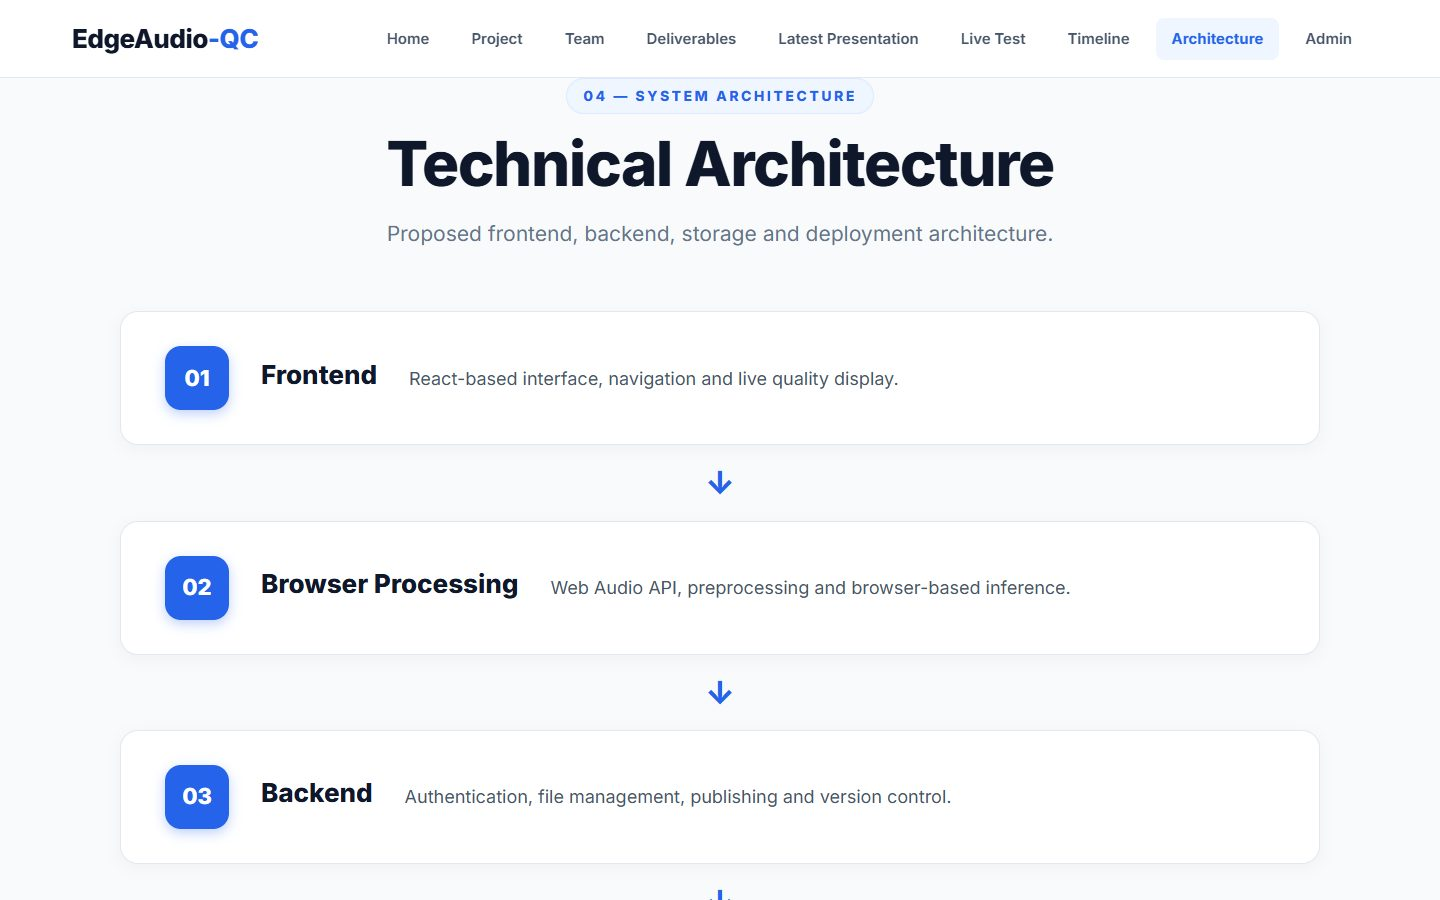
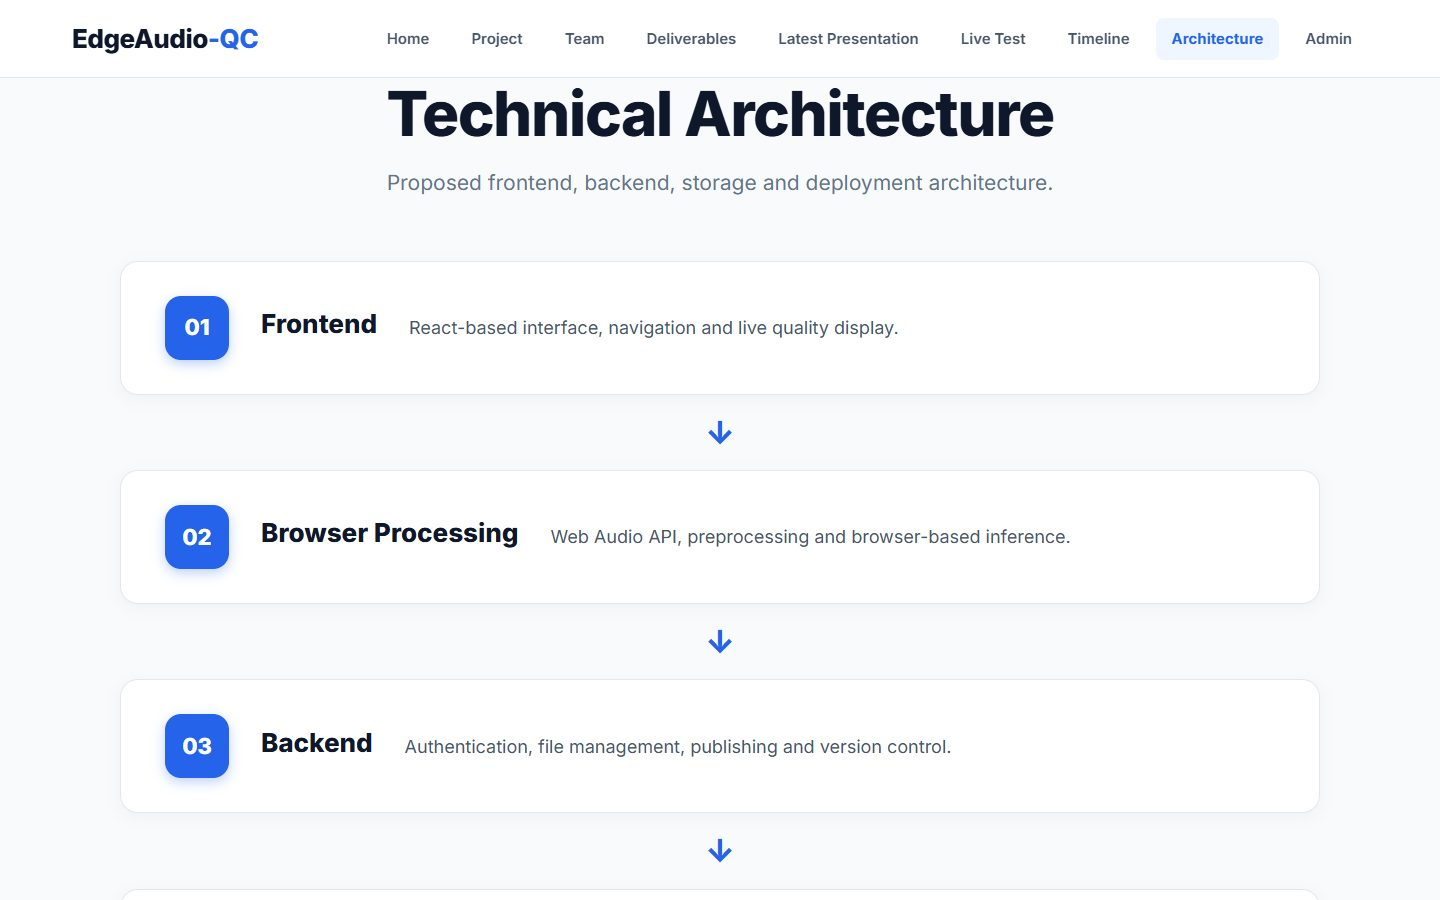
Refine page headers and final presentation page; refresh screenshots

diff --git a/src/pages/FinalPresentationPage.jsx b/src/pages/FinalPresentationPage.jsx
@@ -45,8 +45,8 @@ const LIVE_SIM = [
 ];
 
 const SLIDES = [
-  "Title", "The Problem", "Our Answer", "What We Built", "The Pipeline", "The Model",
-  "Training & Accuracy", "Results", "Diagnostics", "Live Test", "Live Calls",
+  "Title", "The Problem", "Our Answer", "What We Built", "The Website", "The Pipeline", "The Model",
+  "Training & Accuracy", "Results", "Diagnostics", "Live Test", "Live Calls", "Captured Live",
   "Performance", "Privacy & Security", "Journey", "Limitations & Next Steps", "Thank You",
 ];
 
@@ -251,8 +251,24 @@ export default function FinalPresentationPage() {
           </div>
         </Slide>
 
-        {/* 5 — PIPELINE */}
-        <Slide index={4} eyebrow="04 — THE PIPELINE" title="From microphone to score in six steps">
+        {/* 5 — THE WEBSITE */}
+        <Slide index={4} eyebrow="03 — WHAT WE BUILT" title="The website the team built">
+          <div className="fp-shots fp-shots-3">
+            {[
+              ["home.jpg", "Home", "Side menu with every page and quick links to both presentations."],
+              ["architecture.jpg", "Architecture", "How audio moves from the microphone to the score."],
+              ["deliverables.jpg", "Deliverables", "Versioned archive of every published presentation."],
+            ].map(([file, name, text]) => (
+              <figure className="fp-shot" key={file}>
+                <div className="fp-shot-frame"><img src={`/screenshots/${file}`} alt={`${name} page`} loading="lazy" /></div>
+                <figcaption><strong>{name}</strong>{text}</figcaption>
+              </figure>
+            ))}
+          </div>
+        </Slide>
+
+        {/* 6 — PIPELINE */}
+        <Slide index={5} eyebrow="04 — THE PIPELINE" title="From microphone to score in six steps">
           <ol className="fp-flow">
             {[
               ["Capture", "Microphone, demo voice or PC audio at 44.1/48 kHz"],
@@ -272,8 +288,8 @@ export default function FinalPresentationPage() {
           <p className="fp-note">The JavaScript feature code matches the Python training code, so the browser sees the same input the model was trained on.</p>
         </Slide>
 
-        {/* 6 — MODEL */}
-        <Slide index={5} eyebrow="05 — THE MODEL" title="One small network, three answers">
+        {/* 7 — MODEL */}
+        <Slide index={6} eyebrow="05 — THE MODEL" title="One small network, three answers">
           <div className="fp-split">
             <div className="fp-arch">
               <div className="fp-arch-box">Input · 201 frames × 85 features</div>
@@ -298,8 +314,8 @@ export default function FinalPresentationPage() {
           </div>
         </Slide>
 
-        {/* 7 — TRAINING */}
-        <Slide index={6} eyebrow="06 — TRAINING & ACCURACY" title="Trained on real speech with known damage">
+        {/* 8 — TRAINING */}
+        <Slide index={7} eyebrow="06 — TRAINING & ACCURACY" title="Trained on real speech with known damage">
           <div className="fp-split">
             <div>
               <ul className="fp-list">
@@ -323,8 +339,8 @@ export default function FinalPresentationPage() {
           </div>
         </Slide>
 
-        {/* 8 — RESULTS */}
-        <Slide index={7} eyebrow="07 — RESULTS" title="Every kind of damage lowers the score">
+        {/* 9 — RESULTS */}
+        <Slide index={8} eyebrow="07 — RESULTS" title="Every kind of damage lowers the score">
           <div className="fp-bars">
             {SWEEP.map((r) => (
               <div className="fp-bar-row" key={r.label}>
@@ -340,8 +356,8 @@ export default function FinalPresentationPage() {
           <p className="fp-note">Mean predicted score on 83 two-second windows of CMU ARCTIC studio speech. Louder noise gives a steadily lower score: 3.44 → 3.01 → 2.57 → 2.15.</p>
         </Slide>
 
-        {/* 9 — DIAGNOSTICS */}
-        <Slide index={8} dark eyebrow="08 — DIAGNOSTICS" title="It also says what is wrong">
+        {/* 10 — DIAGNOSTICS */}
+        <Slide index={9} dark eyebrow="08 — DIAGNOSTICS" title="It also says what is wrong">
           <div className="fp-diag">
             {DIAGNOSTICS.map((d) => (
               <article key={d.head}>
@@ -356,8 +372,8 @@ export default function FinalPresentationPage() {
           <p className="fp-lead">Each diagnostic rises for its own problem. Noise is detected most strongly; the others react clearly but with smaller probabilities, so the app uses per-problem thresholds.</p>
         </Slide>
 
-        {/* 10 — LIVE TEST */}
-        <Slide index={9} eyebrow="09 — LIVE TEST PAGE" title="Try it: speak, play a voice, or break the audio">
+        {/* 11 — LIVE TEST */}
+        <Slide index={10} eyebrow="09 — LIVE TEST PAGE" title="Try it: speak, play a voice, or break the audio">
           <div className="fp-split">
             <ul className="fp-list">
               <li><b>Inputs:</b> microphone, three studio demo voices (CMU ARCTIC), an uploaded file, or audio from the PC.</li>
@@ -378,8 +394,8 @@ export default function FinalPresentationPage() {
           </div>
         </Slide>
 
-        {/* 11 — CALLS */}
-        <Slide index={10} eyebrow="10 — LIVE CALLS" title="In a call, score what you actually hear">
+        {/* 12 — CALLS */}
+        <Slide index={11} eyebrow="10 — LIVE CALLS" title="In a call, score what you actually hear">
           <div className="fp-call">
             <div className="fp-peer">
               <h3>You</h3>
@@ -400,8 +416,22 @@ export default function FinalPresentationPage() {
           <p className="fp-lead">A second on-device analyser scores the incoming audio, so network dropouts show up where they matter. The “What you hear” card appears only while the call is connected.</p>
         </Slide>
 
-        {/* 12 — PERFORMANCE */}
-        <Slide index={11} dark eyebrow="11 — PERFORMANCE" title="Fast enough to run beside a call">
+        {/* 13 — CAPTURED LIVE */}
+        <Slide index={12} eyebrow="10 — LIVE CALLS" title="Captured live from the running app">
+          <div className="fp-shots fp-shots-2">
+            <figure className="fp-shot">
+              <div className="fp-shot-frame"><img src="/screenshots/live-test.jpg" alt="Live Test page scoring Voice 1" loading="lazy" /></div>
+              <figcaption><strong>Live Test, on its own</strong>Voice 1 playing: the score, problem cards and oscilloscope update about three times a second.</figcaption>
+            </figure>
+            <figure className="fp-shot">
+              <div className="fp-shot-frame"><img src="/screenshots/live-call.jpg" alt="Two-way call showing Your mic and What you hear scores" loading="lazy" /></div>
+              <figcaption><strong>In a two-way call</strong>“Your mic” and “What you hear” are scored side by side; the incoming audio has passed through WebRTC.</figcaption>
+            </figure>
+          </div>
+        </Slide>
+
+        {/* 14 — PERFORMANCE */}
+        <Slide index={13} dark eyebrow="11 — PERFORMANCE" title="Fast enough to run beside a call">
           <div className="fp-grid-4">
             <div className="fp-stat"><strong>13.4<small> ms</small></strong><span>median browser time per 2-second window (WebAssembly, 1 thread)</span></div>
             <div className="fp-stat"><strong>~4<small>%</small></strong><span>of one CPU core when scoring every 0.35 s</span></div>
@@ -410,8 +440,8 @@ export default function FinalPresentationPage() {
           </div>
         </Slide>
 
-        {/* 13 — PRIVACY & SECURITY */}
-        <Slide index={12} eyebrow="12 — PRIVACY & SECURITY" title="Private by design, safe by default">
+        {/* 15 — PRIVACY & SECURITY */}
+        <Slide index={14} eyebrow="12 — PRIVACY & SECURITY" title="Private by design, safe by default">
           <div className="fp-grid-3">
             <article className="fp-card">
               <span className="fp-icon">🔒</span>
@@ -431,8 +461,8 @@ export default function FinalPresentationPage() {
           </div>
         </Slide>
 
-        {/* 14 — JOURNEY */}
-        <Slide index={13} eyebrow="13 — THE JOURNEY" title="17 weeks from idea to working system">
+        {/* 16 — JOURNEY */}
+        <Slide index={15} eyebrow="13 — THE JOURNEY" title="17 weeks from idea to working system">
           <div className="fp-timeline">
             {[
               ["Weeks 1–2", "Browser feasibility"],
@@ -452,8 +482,8 @@ export default function FinalPresentationPage() {
           </div>
         </Slide>
 
-        {/* 15 — LIMITATIONS */}
-        <Slide index={14} eyebrow="14 — LIMITATIONS & NEXT STEPS" title="What we learned and what comes next">
+        {/* 17 — LIMITATIONS */}
+        <Slide index={16} eyebrow="14 — LIMITATIONS & NEXT STEPS" title="What we learned and what comes next">
           <div className="fp-two-col">
             <div className="fp-panel">
               <h3>Honest limitations</h3>
@@ -476,8 +506,8 @@ export default function FinalPresentationPage() {
           </div>
         </Slide>
 
-        {/* 16 — THANK YOU */}
-        <Slide index={15} dark className="fp-end">
+        {/* 18 — THANK YOU */}
+        <Slide index={17} dark className="fp-end">
           <h2 className="fp-hero small">Thank you</h2>
           <p className="fp-hero-sub">Questions & live demo</p>
           <div className="fp-end-actions">

diff --git a/src/pages/final-presentation.css b/src/pages/final-presentation.css
@@ -856,6 +856,49 @@
   cursor: default;
 }
 
+/* ---------- Screenshot slides ---------- */
+.fp-shots { display: grid; gap: 24px; }
+.fp-shots-3 { grid-template-columns: repeat(3, 1fr); }
+.fp-shots-2 { grid-template-columns: repeat(2, 1fr); }
+
+.fp-shot {
+  margin: 0;
+  background: var(--fp-card);
+  border: 1px solid var(--fp-line);
+  border-radius: 18px;
+  padding: 14px 14px 18px;
+  box-shadow: 0 6px 20px rgba(15, 23, 42, 0.05);
+}
+
+.fp-shot-frame {
+  border-radius: 10px;
+  overflow: hidden;
+  border: 1px solid var(--fp-line);
+  background: var(--fp-bg);
+}
+
+.fp-shot-frame img {
+  display: block;
+  width: 100%;
+  aspect-ratio: 16 / 10;
+  object-fit: cover;
+  object-position: top;
+}
+
+.fp-shot figcaption {
+  margin-top: 14px;
+  color: var(--fp-muted);
+  font-size: 15px;
+  line-height: 1.5;
+}
+
+.fp-shot figcaption strong {
+  display: block;
+  color: var(--fp-text);
+  font-size: 18px;
+  margin-bottom: 4px;
+}
+
 /* ---------- Responsive ---------- */
 @media (max-width: 1100px) {
   .fp-flow { grid-template-columns: repeat(3, 1fr); }
@@ -869,6 +912,7 @@
   .fp-page { height: auto; overflow: visible; }
   .fp-scroller { overflow: visible; scroll-snap-type: none; }
   .fp-slide { min-height: auto; padding: 48px 20px; }
+  .fp-shots-3, .fp-shots-2,
   .fp-grid-3, .fp-grid-2x2, .fp-split, .fp-two-col, .fp-call, .fp-flow { grid-template-columns: 1fr; }
   .fp-flow li::after { display: none; }
   .fp-diag, .fp-grid-4 { grid-template-columns: 1fr 1fr; }

diff --git a/src/App.jsx b/src/App.jsx
@@ -36,7 +36,6 @@ function Project() {
   return (
     <Page>
       <div className="page-title">
-        <span>01 — PROJECT</span>
         <h1>Project Overview</h1>
         <p>
           EdgeAudio-QC is a privacy-preserving browser-based system for
@@ -175,7 +174,6 @@ function Team() {
   return (
     <Page>
       <div className="page-title">
-        <span>02 — TEAM</span>
         <h1>Our Team</h1>
         <p>Three members working across frontend, machine learning, browser inference, backend and deployment.</p>
       </div>
@@ -223,7 +221,6 @@ function Timeline() {
   return (
     <Page>
       <div className="page-title">
-        <span>10 — INITIAL PLANNING</span>
         <h1>17-Week Development Roadmap</h1>
         <p>Tasks, dependencies, milestones and deadlines for the complete EdgeAudio-QC project.</p>
       </div>
@@ -310,7 +307,6 @@ function Architecture() {
   return (
     <Page>
       <div className="page-title">
-        <span>04 — SYSTEM ARCHITECTURE</span>
         <h1>Technical Architecture</h1>
         <p>Proposed frontend, backend, storage and deployment architecture.</p>
       </div>

diff --git a/src/pages/LiveCommunication.jsx b/src/pages/LiveCommunication.jsx
@@ -1572,9 +1572,6 @@ function LiveCommunication() {
             {/* COMPACT SLEEK HEADER */}
             <div style={{ display: "flex", justifyContent: "space-between", alignItems: "flex-end", flexWrap: "wrap", gap: "12px" }}>
               <div>
-                <div style={{ display: "inline-flex", alignItems: "center", gap: "6px", background: "#eff6ff", color: "#2563eb", padding: "4px 12px", borderRadius: "9999px", fontSize: "12px", fontWeight: "700", letterSpacing: "1px", textTransform: "uppercase", marginBottom: "6px" }}>
-                  <span>●</span> 06 — PROTOTYPE EVALUATION
-                </div>
                 <h1 style={{ color: "#0f172a", fontSize: "clamp(28px, 3vw, 36px)", margin: 0, fontWeight: "800", letterSpacing: "-0.5px" }}>EdgeAudio-QC Live Test</h1>
                 <p style={{ color: "#64748b", margin: "4px 0 0", fontSize: "15px", lineHeight: "1.4" }}>
                   Real-time on-device speech quality estimator. Speak into your microphone or play a demo voice to compute live MOS scores.

diff --git a/src/pages/AdminPage.jsx b/src/pages/AdminPage.jsx
@@ -223,7 +223,6 @@ export default function AdminPage() {
         <PageNav />
         <main className="page-container">
           <div className="page-title">
-            <span>ADMINISTRATION</span>
             <h1>Instructor / Admin Interface</h1>
             <p>Access the administrative panel to upload and publish official project deliverables.</p>
           </div>
@@ -270,7 +269,6 @@ export default function AdminPage() {
       <PageNav />
       <main className="page-container">
         <div className="page-title">
-          <span>ADMIN DASHBOARD</span>
           <h1>Admin Portal</h1>
           <div style={{ display: "flex", justifyContent: "space-between", alignItems: "center", width: "100%" }}>
             <p>Welcome back! You are logged in as admin.</p>

diff --git a/src/App.css b/src/App.css
@@ -357,20 +357,6 @@ a {
   text-align: center;
 }
 
-.page-title > span {
-  display: inline-block;
-  color: #2563eb;
-  font-size: 14px;
-  font-weight: 800;
-  letter-spacing: 2.5px;
-  text-transform: uppercase;
-  margin-bottom: 14px;
-  background: #eff6ff;
-  padding: 6px 16px;
-  border-radius: 9999px;
-  border: 1px solid #dbeafe;
-}
-
 .page-title h1 {
   margin: 0 0 16px;
   color: #0f172a !important;

diff --git a/src/pages/DeliverablePage.jsx b/src/pages/DeliverablePage.jsx
@@ -249,7 +249,6 @@ export default function DeliverablePage({ slug: slugProp, fallback = null }) {
         )}
 
         <div className="page-title">
-          <span>{data.deliverable_type.toUpperCase()} DELIVERABLE</span>
           <h1>{data.title}</h1>
           <p>
             Version {data.version} — Presented on {formatDateOnly(data.presentation_date)}

diff --git a/src/pages/DeliverablesHistoryPage.jsx b/src/pages/DeliverablesHistoryPage.jsx
@@ -51,7 +51,6 @@ function DeliverablesHistoryPage() {
   return (
     <Page>
       <div className="page-title">
-        <span>05 — DELIVERABLES HISTORY</span>
         <h1>Project Deliverables</h1>
         <p>The complete archive of all presentations, plans, and files published over the lifecycle of the project.</p>
       </div>
